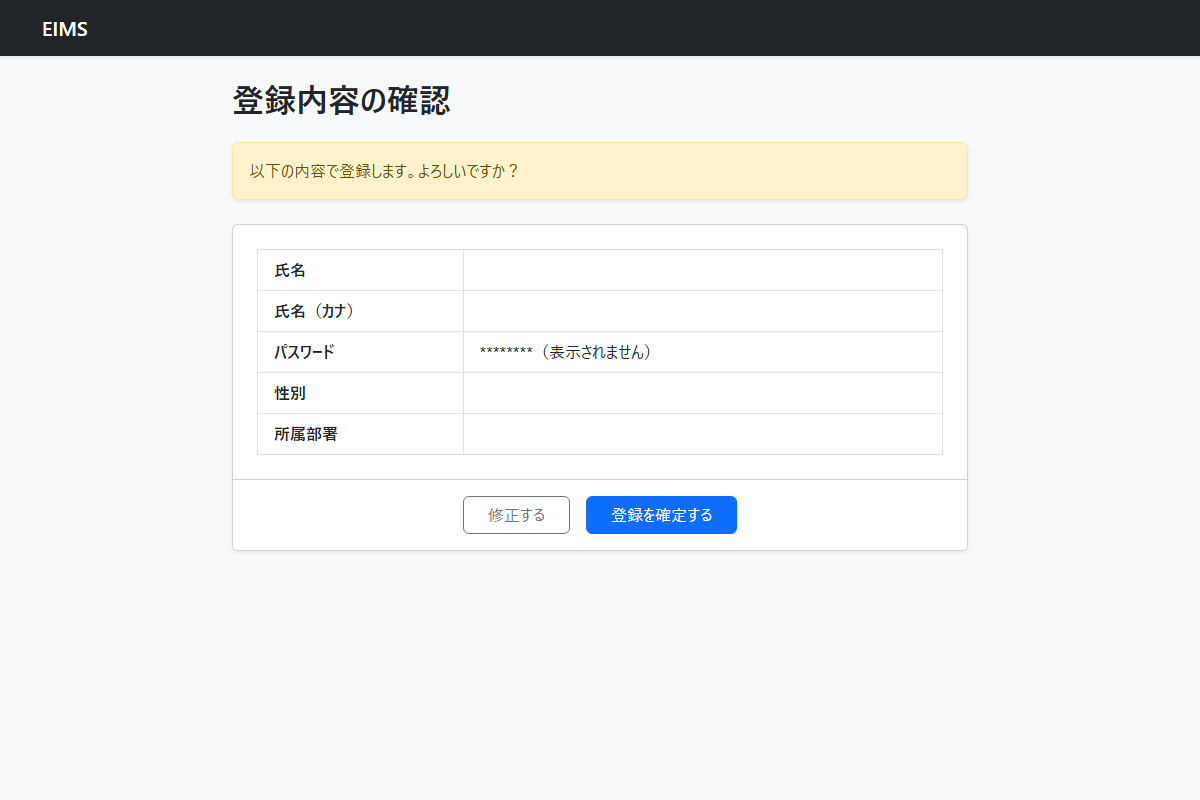
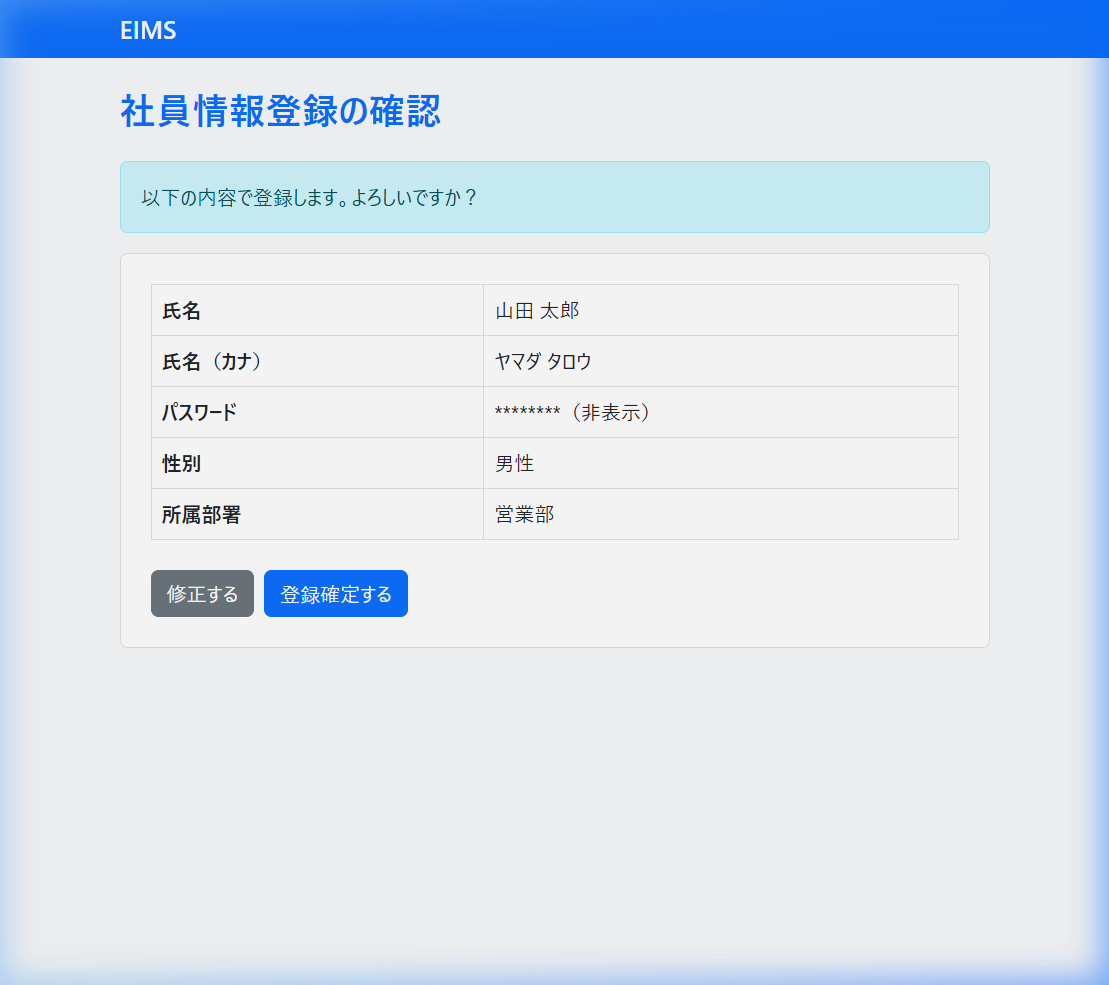
実際のデータでの検索・登録・変更・削除の各フローのスクリーンショットを追加。自動採番の仕様に合わせて登録画面のUIも修正

diff --git a/EIMS_SpringBoot_Basic/src/main/resources/templates/input_confirm.html b/EIMS_SpringBoot_Basic/src/main/resources/templates/input_confirm.html
@@ -1,4 +1,4 @@
-<!DOCTYPE html>
+<!DOCTYPE html>
 <html xmlns:th="http://www.thymeleaf.org">
 <head>
     <meta charset="UTF-8">
@@ -17,7 +17,6 @@
         <div class="bg-white p-4 rounded border mb-4">
             <table class="table table-bordered mb-4">
                 <tbody>
-                    <tr><th>社員番号</th><td th:text="${employeeForm.empno}"></td></tr>
                     <tr><th>氏名</th><td th:text="${employeeForm.lname} + ' ' + ${employeeForm.fname}"></td></tr>
                     <tr><th>氏名（カナ）</th><td th:text="${employeeForm.lkana} + ' ' + ${employeeForm.fkana}"></td></tr>
                     <tr><th>パスワード</th><td>********（非表示）</td></tr>
@@ -27,7 +26,6 @@
             </table>
             <div class="d-flex gap-2">
                 <form th:action="@{/input}" th:object="${employeeForm}" method="post">
-                    <input type="hidden" th:field="*{empno}">
                     <input type="hidden" th:field="*{lname}">
                     <input type="hidden" th:field="*{fname}">
                     <input type="hidden" th:field="*{lkana}">
@@ -37,8 +35,7 @@
                     <input type="hidden" th:field="*{deptno}">
                     <button type="submit" class="btn btn-secondary">修正する</button>
                 </form>
-                <form th:action="@{/insertEmployee}" th:object="${employeeForm}" method="post">
-                    <input type="hidden" th:field="*{empno}">
+                <form th:action="@{/saveEmployee}" th:object="${employeeForm}" method="post">
                     <input type="hidden" th:field="*{lname}">
                     <input type="hidden" th:field="*{fname}">
                     <input type="hidden" th:field="*{lkana}">

diff --git a/EIMS_SpringBoot_Basic/src/main/resources/templates/input.html b/EIMS_SpringBoot_Basic/src/main/resources/templates/input.html
@@ -1,4 +1,4 @@
-<!DOCTYPE html>
+<!DOCTYPE html>
 <html xmlns:th="http://www.thymeleaf.org">
 <head>
     <meta charset="UTF-8">
@@ -15,11 +15,7 @@
         <h2 class="text-primary mb-4">社員情報登録</h2>
         <div class="bg-white p-4 rounded border mb-4">
             <form th:action="@{/inputConfirm}" th:object="${employeeForm}" method="post">
-                <div class="mb-3">
-                    <label class="form-label fw-bold">社員番号</label>
-                    <input type="number" th:field="*{empno}" class="form-control w-50" required>
-                    <div th:errors="*{empno}" class="text-danger mt-1"></div>
-                </div>
+
                 <div class="mb-3">
                     <label class="form-label fw-bold">氏名</label>
                     <div class="d-flex gap-2">

diff --git a/EIMS_Comprehensive_Exercise_Guide.md b/EIMS_Comprehensive_Exercise_Guide.md
@@ -684,10 +684,14 @@ flowchart TD
 ![社員一覧画面](./images/UI_L_employee_list.png)
 
 #### UI2: 検索条件入力画面
-![検索条件入力画面](./images/UI2_search.png)
+![検索条件入力画面（社員番号検索）](./images/UI2_search_empno_input.png)
+![検索条件入力画面（氏名検索）](./images/UI2_search_name_input.png)
+![検索条件入力画面（所属部署検索）](./images/UI2_search_dept_input.png)
 
 #### UI3: 検索結果一覧画面
-![検索結果一覧画面](./images/UI3_search_result.png)
+![検索結果（社員番号ヒット時：詳細画面へ遷移）](./images/UI3_search_empno_result.png)
+![検索結果（氏名検索時）](./images/UI3_search_name_result.png)
+![検索結果（所属部署検索時）](./images/UI3_search_dept_result.png)
 
 #### UI_D: 社員詳細画面
 ![社員詳細画面](./images/UI_D_employee_detail.png)
